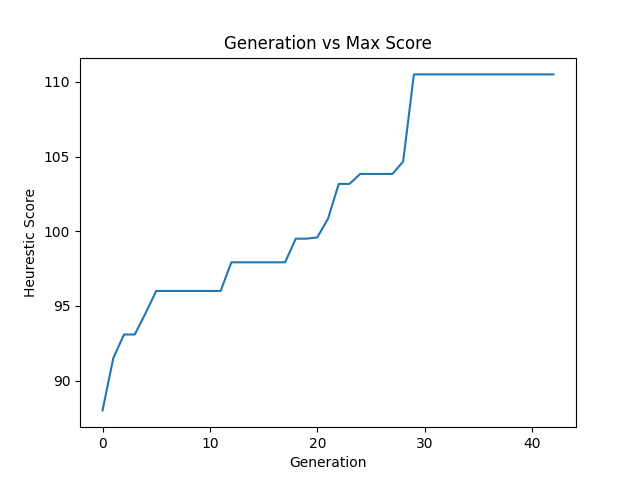
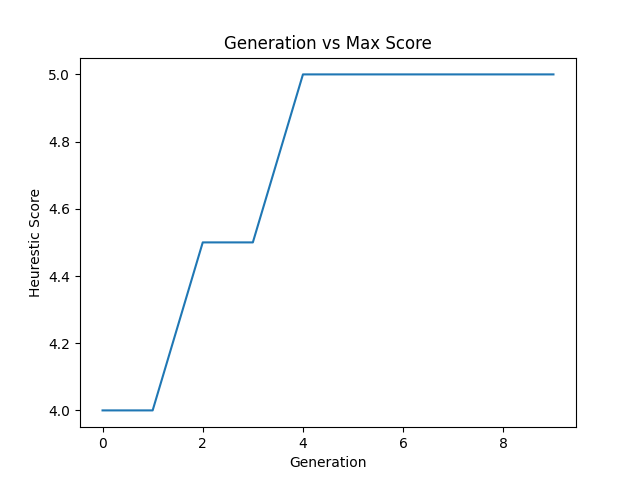
Add basic output

diff --git a/genetic.py b/genetic.py
@@ -29,9 +29,9 @@ class Plane:
         self.passengers: ["Passenger" | None] = []  # Flattened 2D array of Persons or Empty seats
 
         # Debugging
-        self._n_empty = 0
+        # self._n_empty = 0
         self._n_movable_passengers = 0
-        self._n_immovable_passengers = 0
+        # self._n_immovable_passengers = 0
 
     def populate_w_sample(self, perc_available: int):
         """Populate seats (available, passengers) with data."""
@@ -44,7 +44,7 @@ class Plane:
             else:
                 self.available.append(False)
                 self.passengers.append(Passenger(i_moveable))  # Non movable person
-                self._n_immovable_passengers += 1
+                # self._n_immovable_passengers += 1
         # print(f"Added Passengers: immovable {self._n_immovable_passengers} movable {self._n_movable_passengers}")
         # print(f"Empty: {self._n_empty}")
 
@@ -56,7 +56,7 @@ class Plane:
 
             if randint(1, 100) >= 50:
                 self.passengers[i_moveable] = Passenger(i_moveable)  # Movable Person
-                # self._n_movable_passengers += 1
+                self._n_movable_passengers += 1
             else:
                 continue
                 # self.passengers.append(None)  # Empty chair
@@ -65,7 +65,7 @@ class Plane:
             moveable: Passenger = self.passengers[i_moveable]
             # Add preference for people
             if randint(1, 100) <= PERC_PEOPLE_PREF:
-                print("Adding person")
+                # print("Adding person")
                 
                 for _ in range(randint(1, 3)):  # Add up to 3 preferred seating next to people
                     i_rand_seat = randint(0, self.rows * self.cols - 1)
@@ -92,13 +92,13 @@ class Plane:
 
             # Add preference for vertical
             if randint(1, 100) <= PERC_VERT_PREF:
-                print("Vert pref")
+                # print("Vert pref")
                 moveable.update_pref(vert=True)
                 moveable.pref_vals[1] = randint(0, self.sections - 1)
 
             # Add preference for aisle, middle, window
             if randint(1, 100) <= PERC_HOR_PREF or (moveable.pref_vals[0] is None and moveable.pref_vals[1] is None):
-                print("Hor pref")
+                # print("Hor pref")
                 moveable.update_pref(hor=True)
                 moveable.pref_vals[2] = randint(0, 2)
 
@@ -198,11 +198,11 @@ class Plane:
         for i in range(self.rows):
             for j in range(self.cols):
                 if self.passengers[i * self.cols + j] is None:
-                    output += "0 "  # Empty Chairs
+                    output += "E "  # Empty Chairs
                 elif not self.passengers[i * self.cols + j].is_movable():
-                    output += "1 "  # Occupied, but not moveable
+                    output += "X "  # Occupied, but not moveable
                 else:
-                    output += "2 "  # Moveable
+                    output += "M "  # Moveable
 
             output += "\n"
         return output
@@ -317,13 +317,13 @@ class Genome:
     def __repr__(self):
         output = ""
 
-        debug_col = 4
+        debug_col = 6
 
         for i in range(len(self.arr)):
             if self.arr[i] is None:
-                output += "A "  # Empty Chairs
+                output += "E "  # Empty Chairs
             elif not self.arr[i].is_movable():
-                output += "B "  # Occupied, but not moveable
+                output += "X "  # Occupied, but not moveable
             else:
                 output += f"{self.arr[i].position1d} "  # Moveable
 
@@ -420,10 +420,24 @@ def OX(plane: Plane, g1, g2):
     return (off1, off2)
 
 
+def print_scores(g):
+    arr = []
+    for elem in g.arr:
+        if elem != None and elem.is_movable():
+            arr.append((elem.position1d, round(elem.score, 2)))
+        arr.sort()
+
+    for elem in arr:
+        print(elem[0], "score:", round(elem[1], 2))
+
 initial_pop = 128
 
-plane = Plane(100, 6, [1], 3)
+print("People, Vertical, Horizontal")
+plane = Plane(3, 6, [2], 3)
 plane.populate_w_sample(80)
+
+print("\nPlane")
+print(plane)
 
 generations = []
 max_h = []
@@ -433,6 +447,8 @@ curr = []
 for i in range(initial_pop):
     curr.append(Genome(plane))
 
+
+original = True
 change = 1
 prev = -1
 while change >= .1:
@@ -441,6 +457,10 @@ while change >= .1:
     heap = []
     for genome in curr:
         hq.heappush(heap, (-genome.calc_heuristic(plane), genome))
+
+    if original:
+        save = deepcopy(curr[0])
+        original = False
 
     r_sum = 0
     for i in range(len(curr) // 2):
@@ -476,6 +496,19 @@ while change >= .1:
         prev = avg_h[-1]
 
     curr = next
+
+print("Original Genome", round(save.calc_heuristic(plane), 2), '/', plane._n_movable_passengers)
+print(save)
+
+print("Final Genome", round(generations[-1].calc_heuristic(plane), 2), '/', plane._n_movable_passengers)
+print(generations[-1])
+
+print("Original Scores")
+print_scores(save)
+print()
+
+print("Final Scores")
+print_scores(generations[-1])
 
 plt.figure(1)
 plt.plot(max_h)
